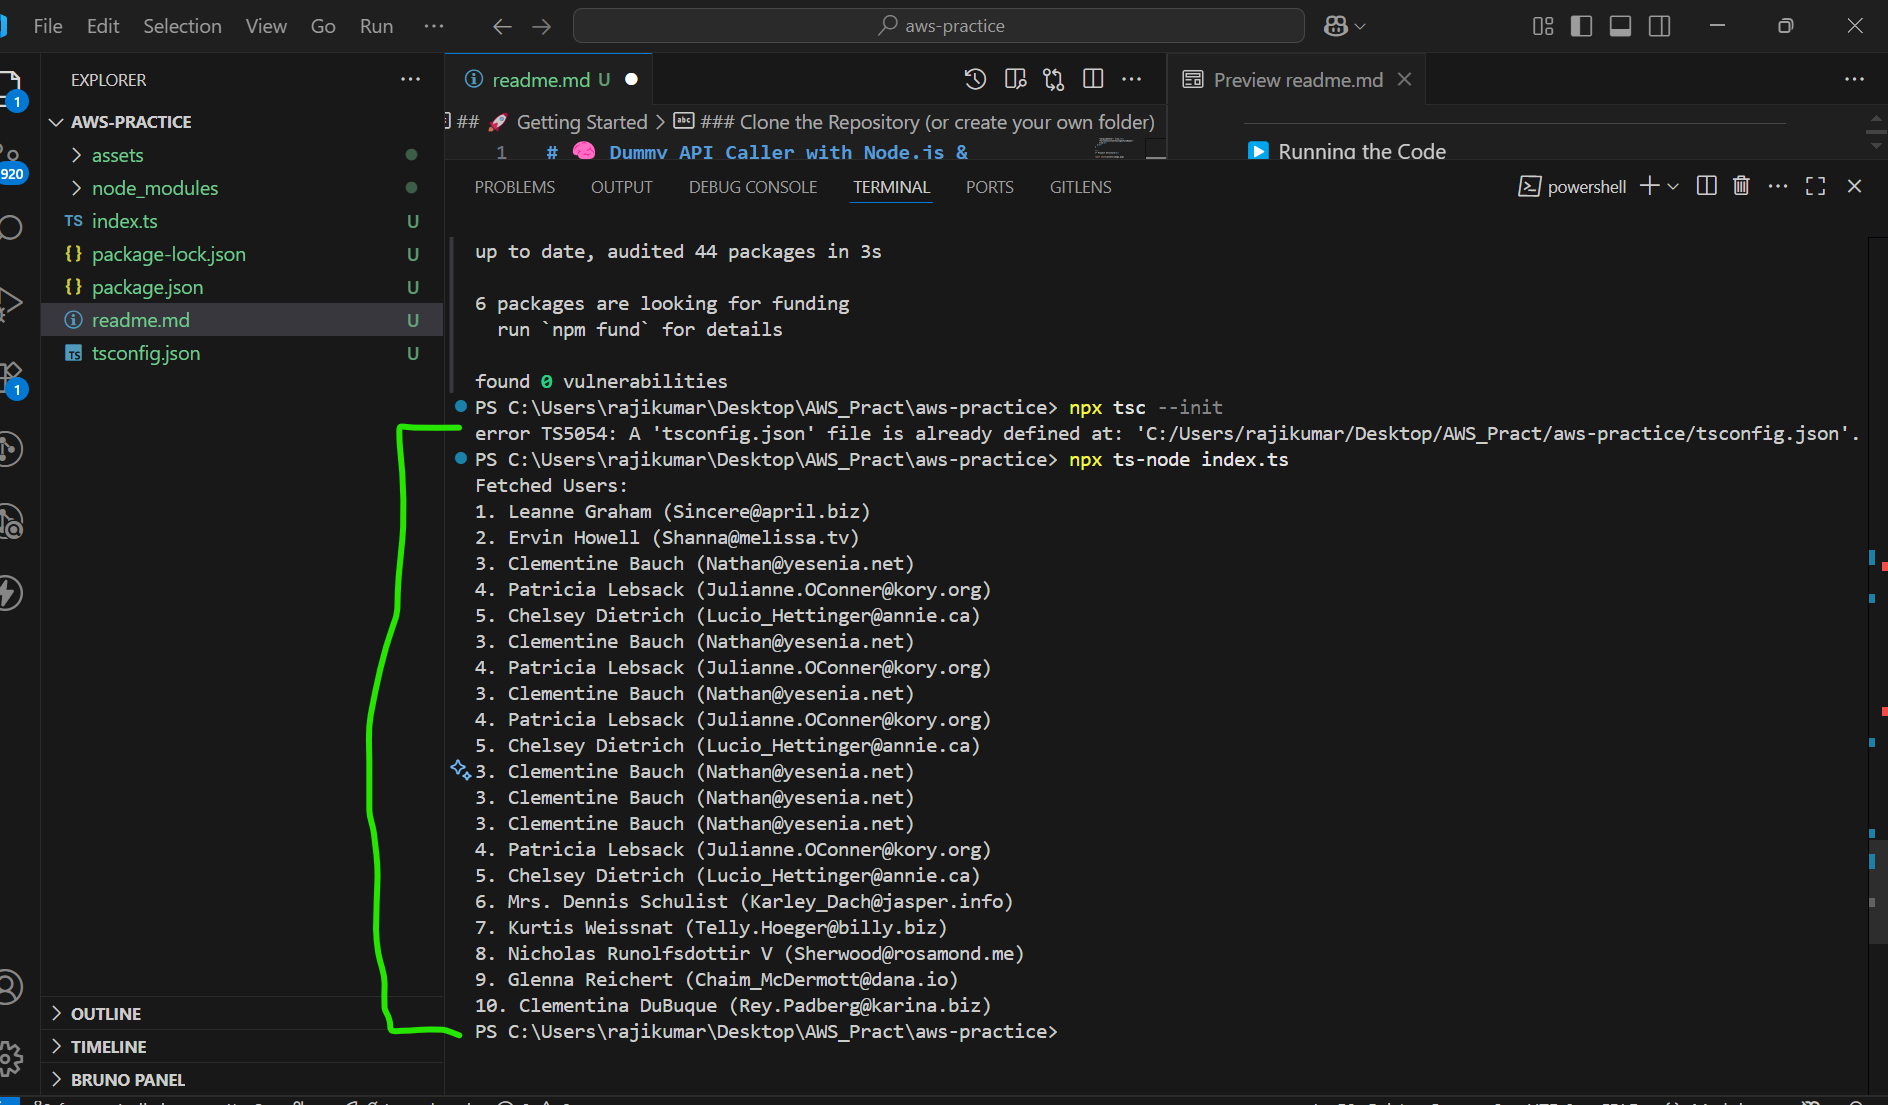
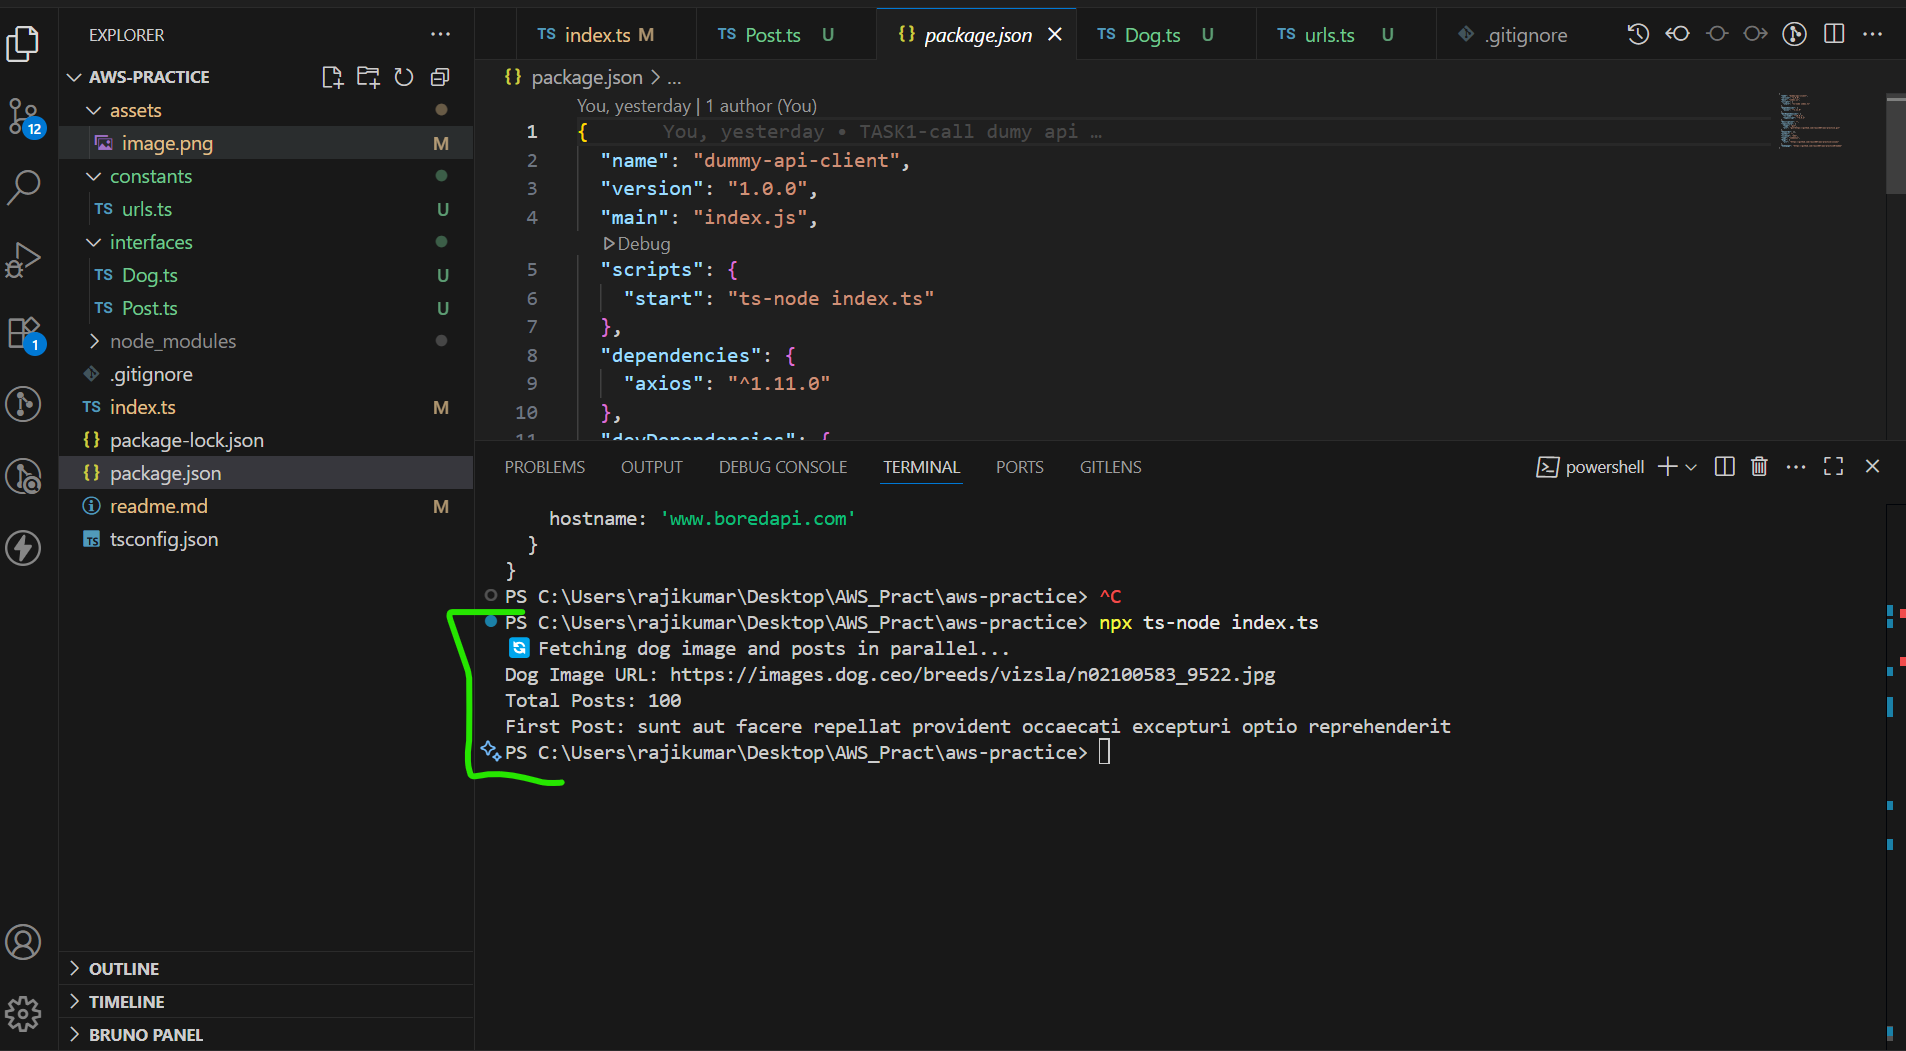
Updated asets folder

diff --git a/index.ts b/index.ts
@@ -1,33 +1,34 @@
 import axios from 'axios';
-import { User } from './interfaces/User';
+import { DogResponse } from './interfaces/Dog';
+import { Post } from './interfaces/Post';
+import { DOG_API, POSTS_API } from './constants/urls';
 
+async function fetchDogImage(): Promise<DogResponse> {
+  const res = await axios.get<DogResponse>(DOG_API);
+  return res.data;
+}
 
-/**
- * Function to fetch users using async/await and return a promise
- * @returns 
- */
-async function fetchUsers(): Promise<User[]> {
+async function fetchPosts(): Promise<Post[]> {
+  const res = await axios.get<Post[]>(POSTS_API);
+  return res.data;
+}
+
+async function fetchInParallelData() {
   try {
-    const response = await axios.get<User[]>('https://jsonplaceholder.typicode.com/users');
-    return response.data;
+    console.log('Fetching dog image and posts in parallel...');
+
+    const [dog, posts] = await Promise.all([
+      fetchDogImage(),
+      fetchPosts()
+    ]);
+
+    console.log('Dog Image URL:', dog.message);
+    console.log(`Total Posts: ${posts.length}`);
+    console.log('First Post:', posts[0].title);
+
   } catch (error) {
-    console.error('Error fetching users:', error);
-    throw new Error('Unable to fetch users');
+    console.error('Error fetching data:', error);
   }
 }
 
-/**
- * Calling the function and printing results
- */
-
-(async () => {
-  try {
-    const users = await fetchUsers();
-    console.log('Fetched Users:');
-    users.forEach(user => {
-      console.log(`${user.id}. ${user.name} (${user.email})`);
-    });
-  } catch (err) {
-    console.error('Error:', err);
-  }
-})();
+fetchInParallelData();

diff --git a/constants/urls.ts b/constants/urls.ts
@@ -1,0 +1,2 @@
+export const DOG_API = 'https://dog.ceo/api/breeds/image/random';
+export const POSTS_API = 'https://jsonplaceholder.typicode.com/posts';

diff --git a/interfaces/Post.ts b/interfaces/Post.ts
@@ -1,0 +1,6 @@
+export interface Post {
+  userId: number;
+  id: number;
+  title: string;
+  body: string;
+}

diff --git a/interfaces/Dog.ts b/interfaces/Dog.ts
@@ -1,0 +1,4 @@
+export interface DogResponse {
+  message: string; 
+  status: string;
+}

diff --git a/readme.md b/readme.md
@@ -1,77 +1,54 @@
-# 🧠 Dummy API Caller with Node.js & TypeScript
+#  Parallel API Calls with Node.js + TypeScript
 
-This is a simple Node.js + TypeScript project that fetches data from a dummy API using `axios`, `async/await`, and TypeScript interfaces.
-
----
-
-## 📦 Prerequisites
-
-- Node.js (v20+ recommended)
-- npm  installed globally
+This project demonstrates how to use **Node.js** and **TypeScript** to fetch data from two public APIs **in parallel** using `axios`, `async/await`, and TypeScript **interfaces**.
 
 ---
 
-## 🚀 Getting Started
+## 🔗 APIs Used
 
-###  Clone the Repository (or create your own folder)
+- **Posts API** (Dummy blog posts):  
+  `https://jsonplaceholder.typicode.com/posts`
 
-Initialize the Project
-
-npm init -y
-
-
-Install Dependencies<br>
-npm install axios<br>
-npm install --save-dev typescript ts-node
-
-
- Setup TypeScript<br>
- npx tsc --init
-
-
-{
-  "compilerOptions": {<br>
-    "target": "ES2020",<br>
-    "module": "commonjs",<br>
-    "strict": true,<br>
-    "esModuleInterop": true,<br>
-    "skipLibCheck": true,<br>
-    "forceConsistentCasingInFileNames": true<br>
-  }<br>
-}
+- **Dog API** (Random dog image):  
+  `https://dog.ceo/api/breeds/image/random`
 
 ---
-🧾 Project Structure<br>
 
-![alt text](assets/image-3.png)
+## 🧱 Project Structure
+![alt text](assets/image.png)
+
+---
+
+
+## 📦 Setup & Run
+### 1. Clone & Install
+
+git clone <your-repo-url>
+npm install
 
 
 ---
 
-▶ Running the Code
+Run Code
 
 npx ts-node index.ts
 
----
-
-📄 Output
-We should see a list of users fetched from the dummy API:
-![alt text](assets/image.png)
-
 
 ---
+🧑💻 Tech Stack
 
-📚 API Used
-https://jsonplaceholder.typicode.com/users
+TypeScript
 
+Node.js
+
+Axios
+
+Promises, Async/Await
+
+TypeScript Interfaces & Types
 
 ---
 
-📌 Features
-Written in TypeScript
+✅ Output
 
-Uses axios for HTTP requests
-
-Uses Promises, async/await
-
-Includes TypeScript interfaces and types
+![alt text](assets/image-1.png)
